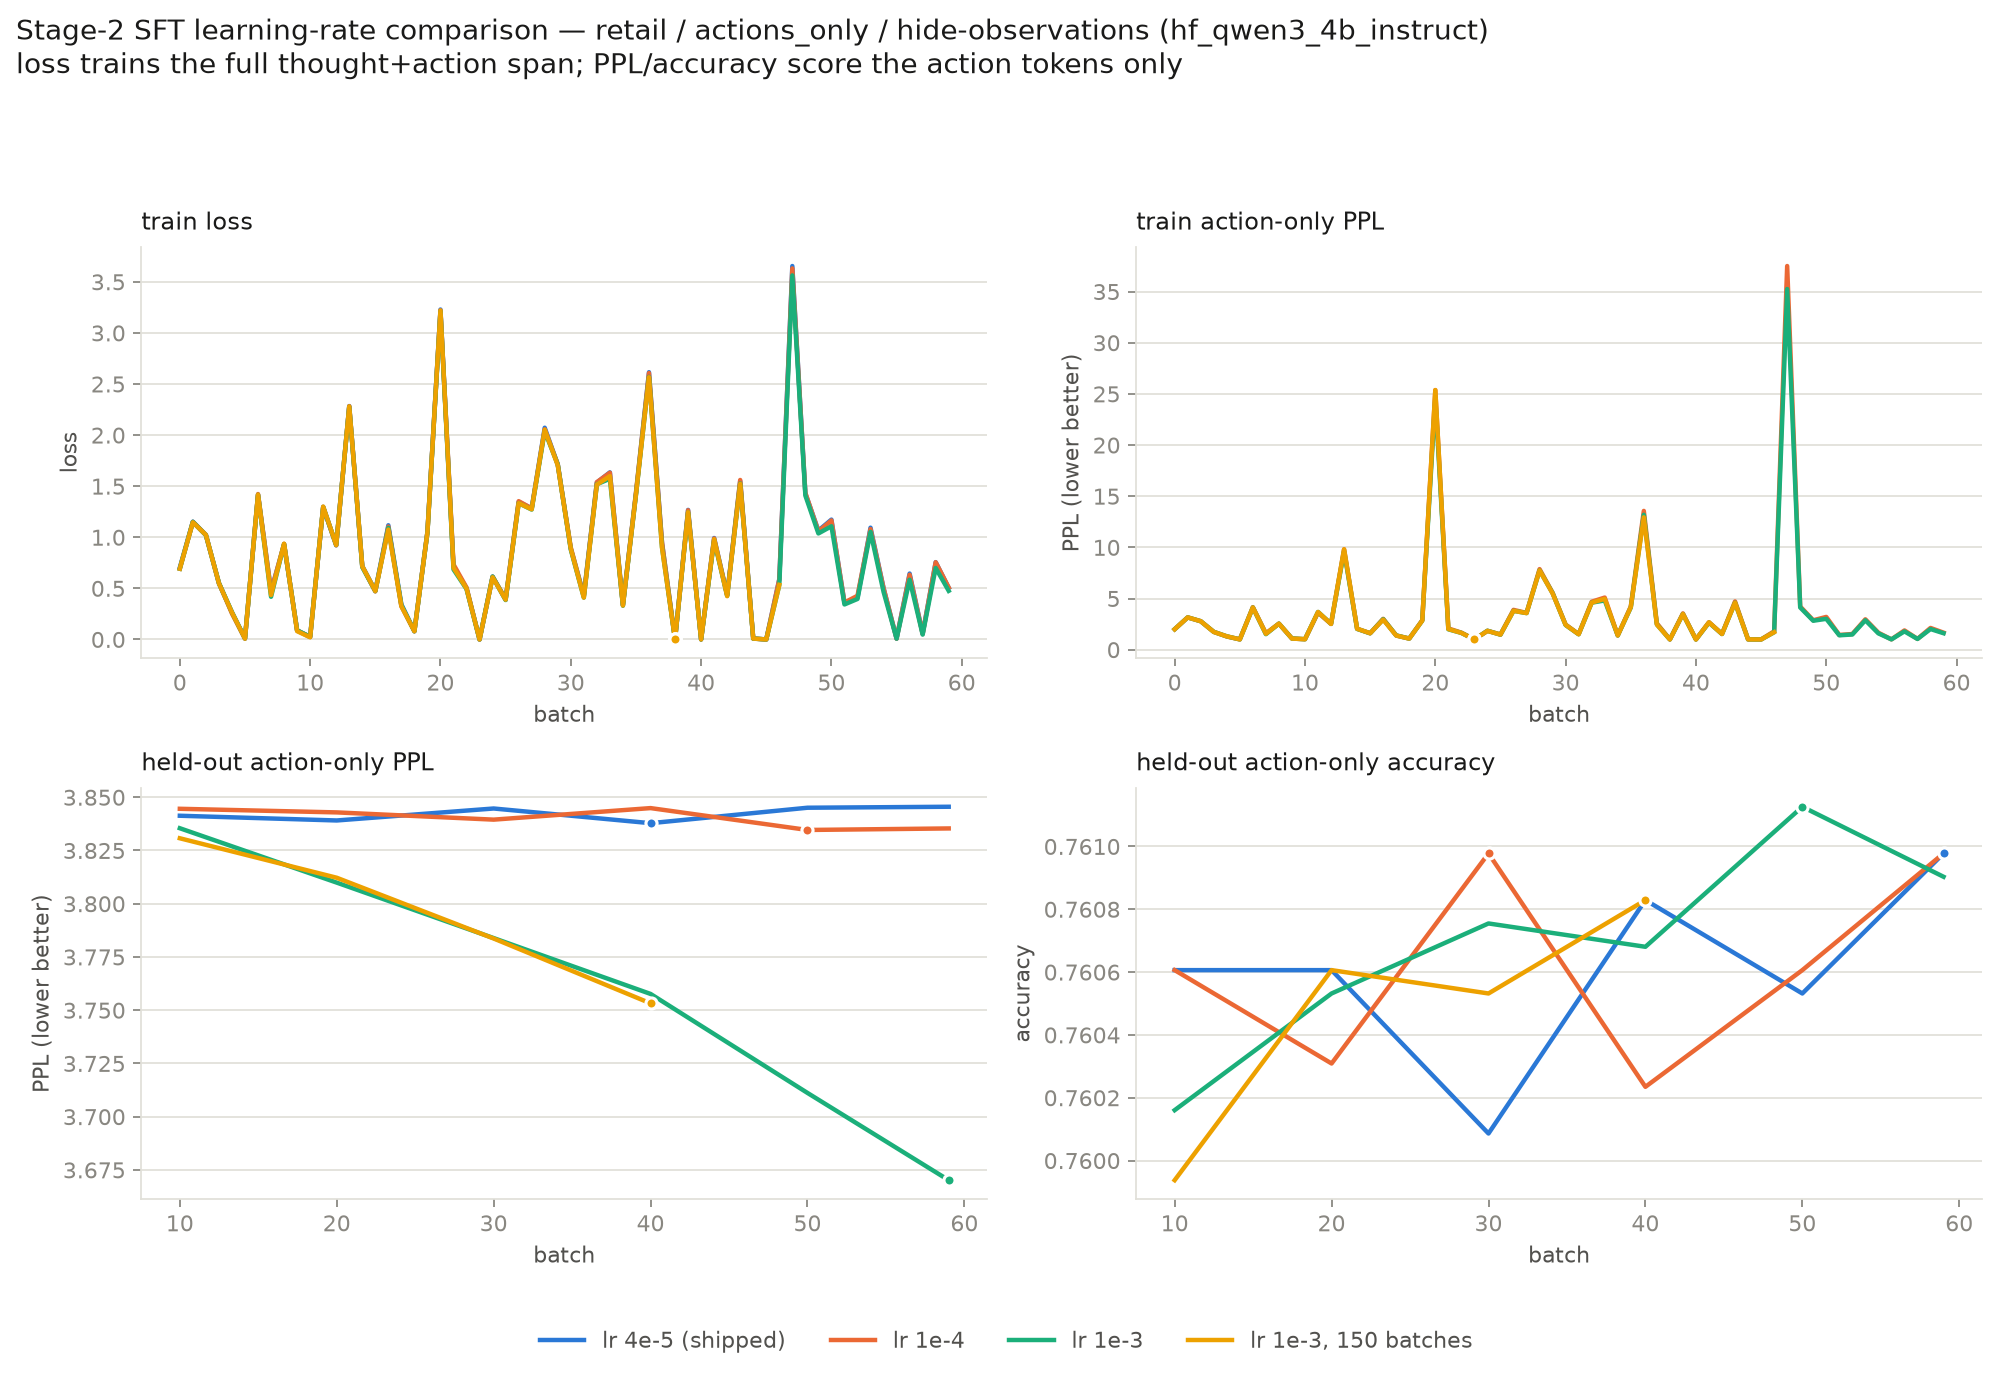
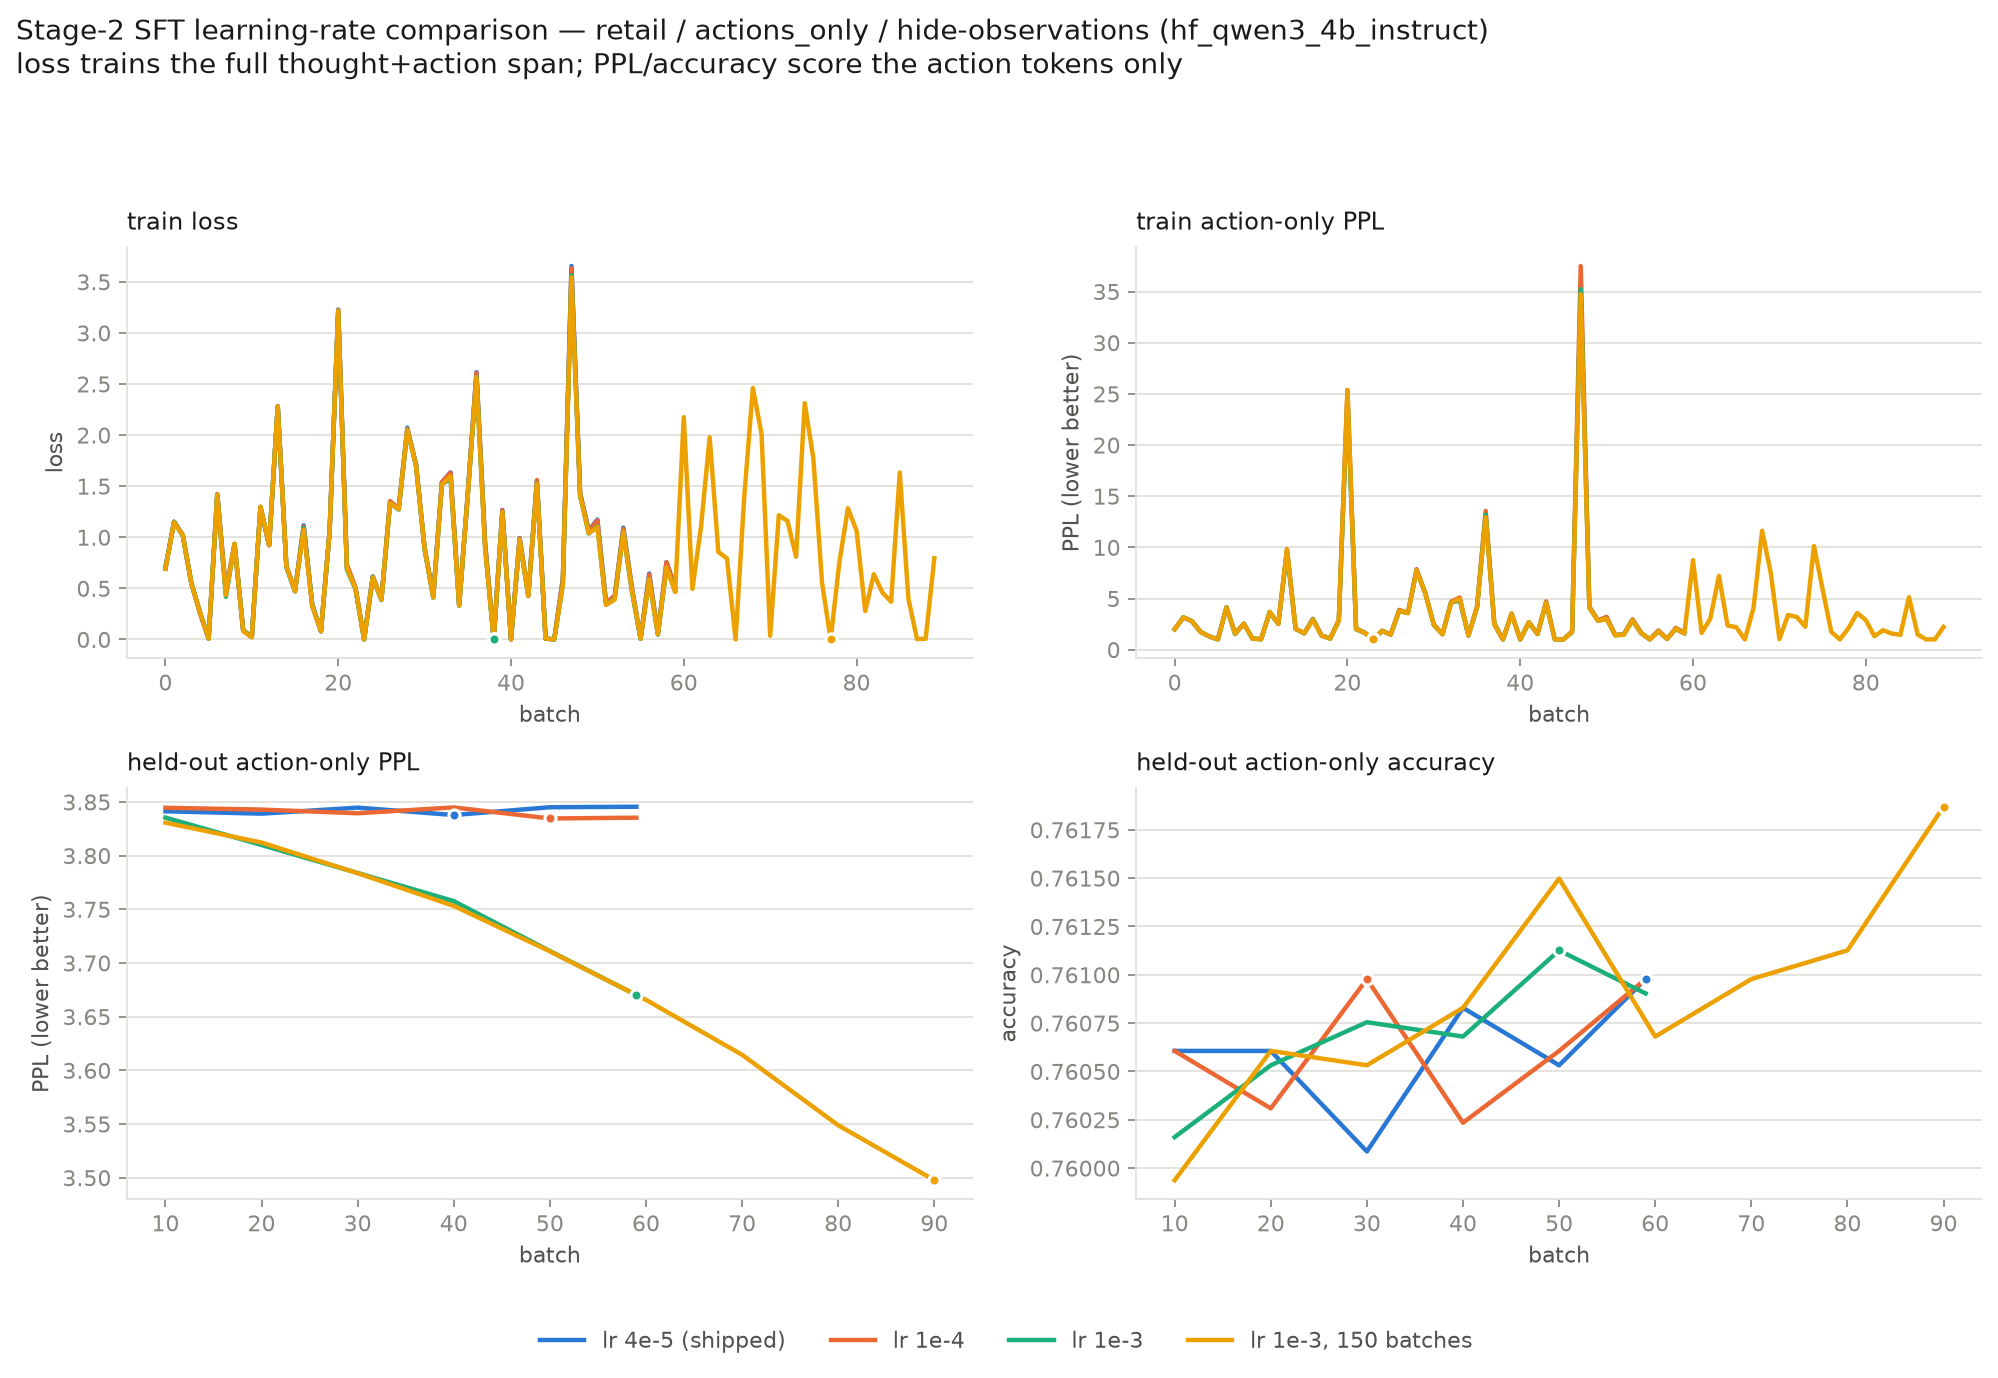
auto: SFT LR sweep results snapshot

diff --git a/notes/cc-5.0-sft-lr-investigation.md b/notes/cc-5.0-sft-lr-investigation.md
@@ -1,0 +1,121 @@
+# cc-5.0 — Stage-2 SFT never trained: diagnosis, fix, and the re-run
+
+Running log. The results table near the bottom is refreshed automatically every 20 min
+by `scripts/snapshot_results.sh` (cron).
+
+## The finding
+
+Every Stage-2 SFT run we have ever reported was trained at `learning_rate: 4e-5`
+(`configs/trainer/{sft,pg}.yaml`, untouched since the initial commit `88d1068`) and
+**barely moved the model**. This is measured on the weights, not inferred from curves:
+
+| stage | max &#124;(α/r)·B·A&#124; |
+|---|---|
+| Stage-1 EM (retail) | 1.3e-06 |
+| Stage-1 relabel (retail) | 1.3e-06 |
+| Stage-2 SFT (retail) | 4.5e-05 |
+| Stage-2 SFT (finance) | 2.4e-06 |
+| Stage-3 RLVR (retail) | 2.4e-05 |
+
+Base weights are order 1e-2, so the largest single-layer perturbation was ~0.4% and the
+median ~0.01%. `lora_A` was still at its seeded init — two SFT runs trained on
+**different corpora** had `A` matrices agreeing to 1.5e-6. `B` is zero-initialised and
+`dL/dA ∝ Bᵀ`, so the runs never escaped the LoRA cold start.
+
+It is not an SFT-specific bug and not an advantage-weighting artifact
+(`train/advantage ≡ 1.0`, `advantage_mode: uniform`, `loss_fn: cross_entropy`, train loss
+a normal ~0.9). The optimizer is healthy: adapter movement scales **exactly linearly**
+with LR (25× LR → 25× movement, to three significant figures). The LR was simply ~25×
+too small.
+
+### What this invalidates
+
+1. **All 36 shipped SFT arms are ≈ the base model** (retail, airline, finance × both
+   context regimes).
+2. **It explains the Stage-3 RL null result.** All four retail RLVR arms "warm-started"
+   from adapters numerically indistinguishable from base — so they *were* the same model.
+   The 5/20, 5/20, 6/20, 5/20 spread was not noise swamping an effect; there was no
+   difference to detect.
+3. **The Stage-2 comparison measures something real but differently framed.** Since the
+   model never changed, the stable 20–35% gaps between arms are *context* effects on the
+   base model: having a thought in the prompt makes the action tokens easier to predict.
+   That replicates across three datasets and is a legitimate result — but it is not
+   "SFT on Act-PRM thoughts yields a better policy."
+
+### The tell we already had
+
+First-vs-last on the old runs would have exposed this immediately. Across all 18
+hide-regime arms at 4e-5, held-out action-subspan PPL moved between **−0.12% and +0.14%**
+and got *worse* in 5 of 18; accuracy moved at most **0.08pp** (finance `thoughts_policy`
+and `thoughts_base`: exactly +0.00pp). `analyze_sft.py` reported *best* PPL, and the min
+of a noisy flat line always looks like a result.
+
+## The fix and the re-run
+
+- **lr 1e-3 trains.** Retail `actions_only`, hide: `3.8355 3.8099 3.7839 3.7576 3.7112
+  3.6702` over b10..b59 — monotonic, −4.31%, largest drop in the final interval. At 150
+  batches the same arm reaches −7.4% by b80 and is still descending.
+- **lr 1e-4 is dead**, confirmed with a completed arm: `3.8446 3.8429 3.8395 3.8449`
+  (0.14%, non-monotonic), final adapter 9.2e-5. Tier dropped rather than re-confirmed
+  across two more datasets (~25 GPU-hours saved).
+- **Batch cap raised 60 → 150** with `--early_stop_patience 3`, so arms that plateau stop
+  themselves and only arms still learning spend the budget.
+
+### Training vs reporting spans
+
+Training is on the **full thought+action span** — Act-PRM and `expert_thoughts` must
+learn to produce the thought. Reporting is **action-only on both splits**:
+`eval_actiononly_{ppl,accuracy}` on eval and `train/actiononly_{ppl,accuracy}` on train
+(the latter added here; it previously existed only on finance). Both use the same
+`action_start_token` boundary, so trained and scored spans cannot drift.
+`--train_action_only` remains available as a loss-masking ablation, off by default.
+
+`extract_action` resolves 100% of assistant steps on all three datasets (retail 92/92,
+airline 37/37, finance 340/340).
+
+### A caveat on the old cross-domain table
+
+Retail's subspan numbers came from our implementation, airline's and finance's from the
+other box's. They differ by exactly 2 tokens on 469/469 steps — ours includes the opening
+`<tool_call>\n`, theirs starts after it — so ours reads ~0.3pp optimistic on accuracy and
+~1–3% low on PPL. It is a constant offset applied to every arm within a dataset, so
+within-dataset rankings are unaffected. The re-run uses one definition throughout.
+
+## Open questions
+
+- **Accuracy does not move.** At 1e-3, PPL improves 4.31% while held-out accuracy goes
+  0.7602 → 0.7609 and the whole four-LR panel spans 0.13pp. The model gets better
+  calibrated on action tokens without changing its argmax. If next-action accuracy is the
+  quantity the Act-PRM story rests on, nothing has moved it yet.
+- **Train loss is not a usable signal here.** It is pixel-identical across a 25× LR range
+  (same spikes at b20/b36/b47) — it reads out per-batch difficulty, not learning.
+- **Step- or LR-limited?** 1e-3 was still descending at b150. The `thoughts_base` probe
+  (1e-4 / 1e-3 / 3e-3, 30 batches) is intended to separate these.
+
+## Live results — 1e-3 arms
+
+<!--RESULTS-->
+```
+arm                                                  reg     b   eval ppl first->last      Δ%     acc  train ao ppl
+----------------------------------------------------------------------------------------------------------------------
+retail/actions_only_lr1e_3                           hide   59     3.8355 ->   3.6702   4.31%  0.7609        1.6094
+retail/actions_only_lr1e_3_nb150                     hide   90     3.8307 ->   3.4977   8.69%  0.7619        2.2188  <running>
+retail/expert_thoughts_lr1e_3                        hide    2         (no evals yet)
+
+1/2 arms complete   (Δ% = held-out action-subspan PPL improvement, higher is better)
+```
+_last refreshed: 2026-08-20 00:35_
+<!--/RESULTS-->
+
+## Infrastructure
+
+Two cron entries keep this moving without supervision (agent-launched background shells
+kept being killed with their process group):
+- `*/5 sweep_guard.sh` — runs the `thoughts_base` probe once, then keeps the LR matrix
+  advancing. Idempotent, `flock`-guarded, no-ops while a trainer is live.
+- `*/20 snapshot_results.sh` — refreshes notes/CSVs/figures, updates the table above,
+  backs `metrics.jsonl` into dotsync, and commits.
+
+Resume correctness: completion is an explicit `.done` marker, **not** `step_best` —
+`step_best` is written at the first eval, so an interrupted arm used to look finished and
+be skipped forever. `NUM_BATCHES` rides in the run tag so a budget change re-runs.

diff --git a/notes/cc-3.0-retail_sft_results.md b/notes/cc-3.0-retail_sft_results.md
@@ -20,7 +20,7 @@ for wordiness rather than for mispredicting the action, which inverts the rankin
 | thoughts_base | hide | 3.1735 | 0.7819 | 59 | 3.7098 | 0.7454 | 59 | 0.9361 |
 | thoughts_base | full | 2.9999 | 0.8035 | 30 | 3.4093 | 0.7717 | 59 | 0.6225 |
 | actions_only_lr1e_3 | hide | 3.6702 | 0.7609 | 59 | 3.6702 | 0.7609 | 59 | 0.4756 |
-| actions_only_lr1e_3_nb150 | hide | 3.7109 | 0.7615 | 50 | 3.7109 | 0.7615 | 50 | 1.1019 |
+| actions_only_lr1e_3_nb150 | hide | 3.4977 | 0.7619 | 90 | 3.4977 | 0.7619 | 90 | 0.7945 |
 | actions_only_lr1e_4 | hide | 3.8346 | 0.7606 | 50 | 3.8346 | 0.7606 | 50 | 0.5078 |
 | expert_thoughts_lr1e_3 | hide | — | — | — | — | — | — | 1.7268 |
 | expert_thoughts_lr1e_4 | hide | — | — | — | — | — | — | 1.9577 |
@@ -46,7 +46,7 @@ that saved step:
 | thoughts_base | hide | 3.1735 | 0.7819 |
 | thoughts_base | full | 3.0008 | 0.8030 |
 | actions_only_lr1e_3 | hide | 3.6702 | 0.7609 |
-| actions_only_lr1e_3_nb150 | hide | 3.7109 | 0.7615 |
+| actions_only_lr1e_3_nb150 | hide | 3.4977 | 0.7619 |
 | actions_only_lr1e_4 | hide | 3.8346 | 0.7606 |
 | expert_thoughts_lr1e_3 | hide | — | — |
 | expert_thoughts_lr1e_4 | hide | — | — |
